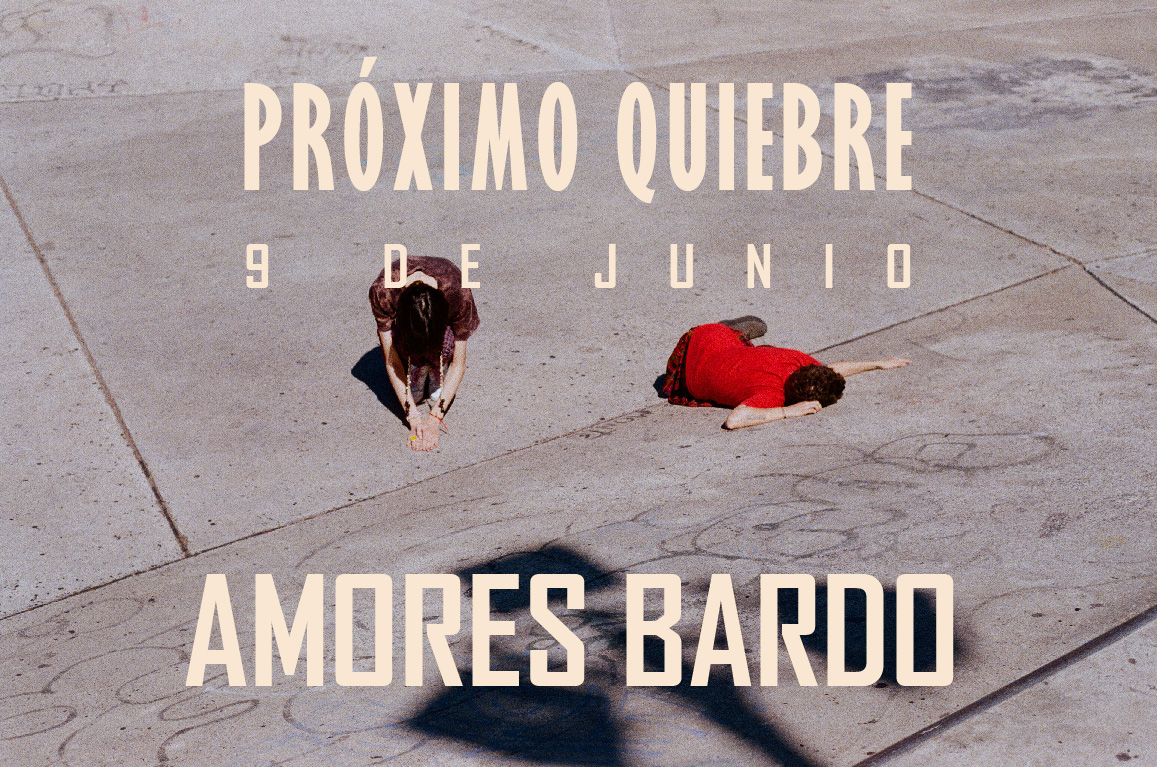
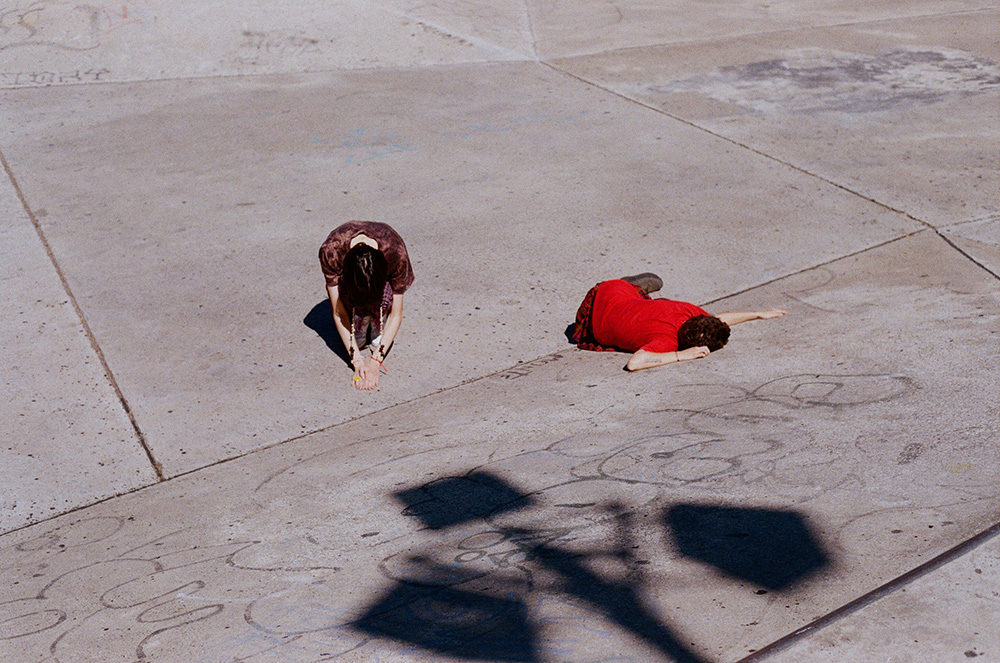
change last image / remove dates
done

diff --git a/src/master.sass b/src/master.sass
@@ -98,6 +98,9 @@ body
     animation: rotate 10s linear 1s infinite
     perspective: 200px
     perspective-origin: 50% 50%
+  h3
+    color: transparent
+    text-shadow: none
 
 #module-2
   color: #ec6790
@@ -126,6 +129,9 @@ body
       position: top
       repeat: no-repeat
       size: cover
+  h3
+    color: transparent
+    text-shadow: none
 
 #module-4
   background: url(../img/module-5.jpg)

diff --git a/dist/master.css b/dist/master.css
@@ -158,6 +158,11 @@ body {
   }
 }
 
+#module-1 h3 {
+  color: transparent;
+  text-shadow: none;
+}
+
 #module-2 {
   color: #ec6790;
   background: url(../img/module-2.jpg);
@@ -194,6 +199,11 @@ body {
     background-repeat: no-repeat;
     background-size: cover;
   }
+}
+
+#module-3 h3 {
+  color: transparent;
+  text-shadow: none;
 }
 
 #module-4 {
